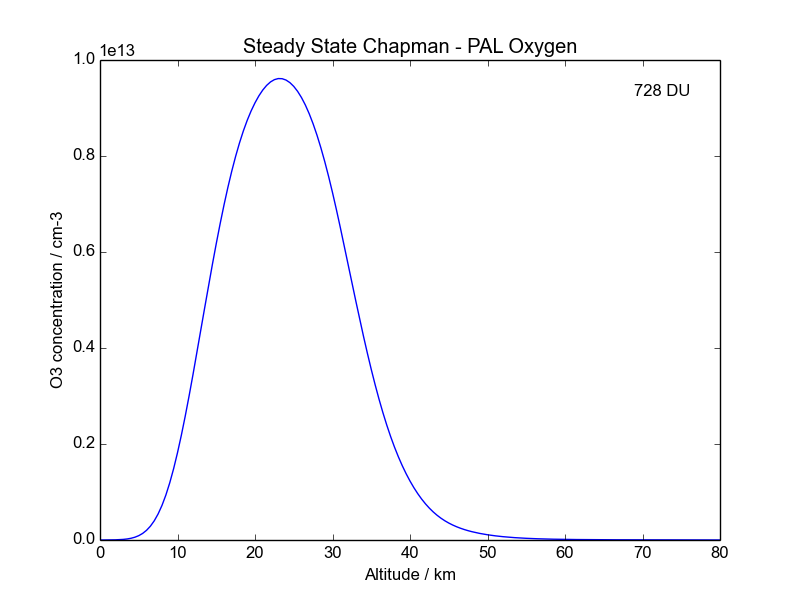
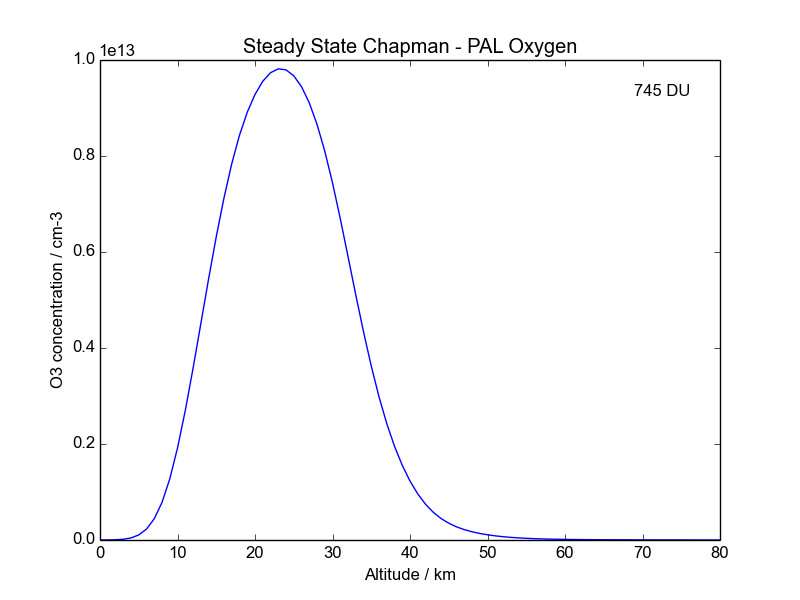
Revert to arrays for D1 etc. Adjustments to chemical solver code

diff --git a/main.py b/main.py
@@ -12,11 +12,11 @@ from netCDF4 import Dataset
 from scipy.integrate import odeint,ode
 
 from data import extract_csec,ncsave
-from optical_depth import od_chems_new
+from optical_depth import od_chems_new,od_chems
 from j_rates import j
 from k_rates import k
 from steady_state import steady,ozone,otp
-from d_arrays import d2_calc_new,d3_calc_new,d2_calc,d3_calc
+from d_arrays import d2_calc,d3_calc,d1_init
 from plotting import altconc,linoxyoz,logoxyoz
 
 #Running options
@@ -25,7 +25,6 @@ ratio = 0.21
 # Steady state mode - can set up 'initial values' for chem scheme
 steadystate = True
 interactive = False
-numerics = False
 new_numerics = True
 # Plotting scripts - plots oxygen vs ozone for a range of oxygen vals
 plot_on = True
@@ -34,7 +33,7 @@ plot_on = True
 
 #Constants
 #Number of atmospheric levels
-nlevs=161
+nlevs=81
 #Height, km
 h_min=0
 h_max=80
@@ -43,6 +42,8 @@ heights=np.linspace(h_max,h_min,nlevs)
 H=7
 #surface M, cm-3
 M_surf=2.5E19*(ratio+0.79)
+
+box_h=(1E5*(h_max-h_min)/(nlevs-1))
 
 # wavelength bins, interpolating o2 & solar onto o3 csec wavelengths, extract temps
 sol_bin_width,o2_c,o3_c,sol,T=extract_csec(heights)
@@ -89,98 +90,45 @@ if plot_on==True:
 	linoxyoz(nlevs,h_max,h_min,H,o2_c,o3_c,T,sol,sol_bin_width)
 
 if new_numerics==True:
-        file=Dataset('netcdf/O3.nc')
-        o3_init=file.variables['O3'][:]
-        file=Dataset('netcdf/O2.nc')
-        o2=file.variables['O2'][:]
-	M=o2/ratio
-        file=Dataset('netcdf/O.nc')
-        o_init=file.variables['O'][:]
 	o2_running=0
 	o3_running=0
 	o3=np.zeros(nlevs)
 	o=np.zeros(nlevs)
+        d1defs=np.genfromtxt("species.dat",dtype='str',skiprows=2)
+        bimol=np.genfromtxt("bimol.dat",dtype='str',skiprows=2)
+        photo=np.genfromtxt("photol.dat",dtype='str',skiprows=2)
+        nrxns=len(bimol)+len(photo)
+        nspec=len(d1defs[:,0])
+	d1=d1_init(d1defs,nlevs,ratio)
+	o2=d1[np.where(d1defs=='O2')[0][0],:]
+	M=d1[np.where(d1defs=='M')[0][0],:]
+        d3=np.zeros([len(d1defs[:,0]),nlevs])
 	for i in range(nlevs):
-		k3M=k('k3M',T[i],M[i])
-		k4=k('k4',T[i],M[i])
-		optical_depth=o2_c*o2_running+o3_c*o3_running
-		I_factor=np.exp(-optical_depth)
-		I=np.array(sol*I_factor)
-		J2=j(I,o2_c,o3_c,'JO2',sol_bin_width)
-		J3=j(I,o2_c,o3_c,'JO3',sol_bin_width)
+		#Create dictionary of rates
+                rates={}
+                for a in range(len(bimol)):
+                        rates[a]=k(bimol[a,2],T[i],M[i])
+                I=od_chems(o2_running,o3_running,o2_c,o3_c,sol)
+                for a in range(len(photo)):
+                        rates[a+len(bimol)]=j(I,o2_c,o3_c,photo[a,1],sol_bin_width)
+		#Define function for chemical tendencies
 		def f(y, t):
-			g=[k3M*y[1]*o2[i]-(J3+k4*y[1])*y[0],2*J2*o2[i]+J3*y[0]-(k3M*o2[i]+k4*y[0])*y[1]]
+			g=[rates[0]*y[1]*o2[i]-(rates[3]+rates[1]*y[1])*y[0],2*rates[2]*o2[i]+rates[3]*y[0]-(rates[0]*o2[i]+rates[1]*y[0])*y[1]]
 			return g
 		#initial conditions
-		o0=o_init[i]
-		o30=o3_init[i]
-		y0=[o30,o0]
-		t=np.linspace(0,8640000,2400)
-		#There's probably a more efficient way to do this but meh
+		y0=[d1[np.where(d1defs=='O3')[0][0],i],d1[np.where(d1defs=='O')[0][0],i]]
+		time_tot=8640
+		t=np.linspace(0,time_tot,time_tot/3600)
+		#solution provides a time series, take the final value
 		soln=odeint(f,y0,t)
 		soln=soln[len(t)-1,:]
-		o3[i]=soln[0]
-		o[i]=soln[1]
-		o3_running=o3_running+o3[i]*(1E5*(h_max-h_min)/(nlevs-1))
-		o2_running=o2_running+o2[i]*(1E5*(h_max-h_min)/(nlevs-1))
-	plt.plot(heights,(o3_init-o3)/o3_init)
+		if i==0:
+			print soln
+		d3[np.where(d1defs=='O3')[0][0],i]=soln[0]
+                d3[np.where(d1defs=='O')[0][0],i]=soln[1]
+		o3_running=o3_running+d3[np.where(d1defs=='O3')[0][0],i]*box_h
+		o2_running=o2_running+d1[np.where(d1defs=='O2')[0][0],i]*box_h
+	#print d3[np.where(d1defs=='O3')[0][0],:]
+	#print o3_init
+	plt.plot(heights,(d1[np.where(d1defs=='O3')[0][0],:]-d3[np.where(d1defs=='O3')[0][0],:])/d1[np.where(d1defs=='O3')[0][0],:])
 	plt.savefig('new_numerics.png')
-if numerics==True:
-#The D1 array contains the chemical species concentrations
-#D1 metadata is contained in D1DEFS
-
-	print "CONSTRUCTING D1 ARRAY"
-	d1defs=np.genfromtxt("species.dat",dtype='str',skiprows=2)
-	#d1=d1_init(d1defs,nlevs,ratio)
-	d1={}
-	y=0
-	while y<len(d1defs[:,0]):
-	        D=Dataset('netcdf/'+d1defs[y,0]+'.nc')
-	        value=D.variables[d1defs[y,0]][:]
-	        key=d1defs[y,0]
-	        d1[key]=value
-	        y+=1
-	print d1.__class__
-	bimol=np.genfromtxt("bimol.dat",dtype='str',skiprows=2)
-	photo=np.genfromtxt("photol.dat",dtype='str',skiprows=2)
-	nrxns=len(bimol)+len(photo)
-	nspec=len(d1defs[:,0])
-#The D2 array contains the chemical tendencies for each reaction
-#There is a chemical tendency arising from each chemical reaction
-	for i in range(1):
-		rates={}
-		for a in range(len(bimol)):
-			rates[a]=k(bimol[a,2],T[i],M[i])
-		I=od_chems_new(d1,d1defs,o2_c,o3_c,sol,nlevs,len(sol),h_max,h_min)
-		for a in range(len(photo)):
-			rates[a+len(bimol)]=j(I,o2_c,o3_c,photo[a,1],sol_bin_width)
-		print rates
-		def f(y, t):
-			for a in range(nspec):
-				sp=d1defs[a,0]
-				d3[sp]=y[a]
-				d2[sp]=0
-				for b in range(np.where(bimol==d1defs[a,0])[:][0].shape[0]):
-					rxno=np.where(bimol==d1defs[i,0])[0][j]
-					if np.where(bimol==d1defs[a,0])[1][b]<2:
-						d2[sp]=d2[sp]-d3[bimol[rxno,0]]*d3[bimol[rxno,1]]*rates[bimol[rxno,2]]
-					else:
-						d2[sp]=d2[sp]+d3[bimol[rxno,0]]*d3[bimol[rxno,1]]*rates[bimol[rxno,2]]
-			return d2
-		t=[0,3600,7200]
-		soln=ode(f).set_integrator('lsoda')
-		print soln
-		soln.integrate(soln,3600)
-#		soln=odeint(f,d1,t)
-		#d2=d2_calc_new(nrxns,nlevs,d1,bimol,T,photo,o2_c,o3_c,sol,sol_bin_width,d1defs,d1['M'],h_max,h_min)
-		#d3=d3_calc_new(d1defs,nlevs,bimol,photo,d2)
-		#print d3[1,:]
-		#for i in range(len(d1defs[:,0])):
-		#	d1[d1defs[i,0]]=d1[d1defs[i,0]]+d3[d1defs[i,0]]
-		#doz=d1['O3']
-		#doz=doz*(1E5*(h_max-h_min)/(nlevs-1))
-		#doz=np.sum(doz)
-		#doz=doz/2.69E16
-du=o3_running/2.69E16
-#plt.plot(np.linspace(h_min,h_max,nlevs),d1[1,:])
-#plt.show()

diff --git a/deprecated_code.py b/deprecated_code.py
@@ -1,0 +1,60 @@
+if numerics==True:
+#The D1 array contains the chemical species concentrations
+#D1 metadata is contained in D1DEFS
+
+        print "CONSTRUCTING D1 ARRAY"
+        d1defs=np.genfromtxt("species.dat",dtype='str',skiprows=2)
+        #d1=d1_init(d1defs,nlevs,ratio)
+        d1={}
+        y=0
+        while y<len(d1defs[:,0]):
+                D=Dataset('netcdf/'+d1defs[y,0]+'.nc')
+                value=D.variables[d1defs[y,0]][:]
+                key=d1defs[y,0]
+                d1[key]=value
+                y+=1
+        print d1.__class__
+        bimol=np.genfromtxt("bimol.dat",dtype='str',skiprows=2)
+        photo=np.genfromtxt("photol.dat",dtype='str',skiprows=2)
+        nrxns=len(bimol)+len(photo)
+        nspec=len(d1defs[:,0])
+#The D2 array contains the chemical tendencies for each reaction
+#There is a chemical tendency arising from each chemical reaction
+        for i in range(1):
+                rates={}
+                for a in range(len(bimol)):
+                        rates[a]=k(bimol[a,2],T[i],M[i])
+                I=od_chems_new(d1,d1defs,o2_c,o3_c,sol,nlevs,len(sol),h_max,h_min)
+                for a in range(len(photo)):
+                        rates[a+len(bimol)]=j(I,o2_c,o3_c,photo[a,1],sol_bin_width)
+                print rates
+                def f(y, t):
+                        for a in range(nspec):
+                                sp=d1defs[a,0]
+                                d3[sp]=y[a]
+                                d2[sp]=0
+                                for b in range(np.where(bimol==d1defs[a,0])[:][0].shape[0]):
+                                        rxno=np.where(bimol==d1defs[i,0])[0][j]
+                                        if np.where(bimol==d1defs[a,0])[1][b]<2:
+                                                d2[sp]=d2[sp]-d3[bimol[rxno,0]]*d3[bimol[rxno,1]]*rates[bimol[rxno,2]]
+                                        else:
+                                                d2[sp]=d2[sp]+d3[bimol[rxno,0]]*d3[bimol[rxno,1]]*rates[bimol[rxno,2]]
+                        return d2
+                t=[0,3600,7200]
+                soln=ode(f).set_integrator('lsoda')
+                print soln
+                soln.integrate(soln,3600)
+#               soln=odeint(f,d1,t)
+                #d2=d2_calc_new(nrxns,nlevs,d1,bimol,T,photo,o2_c,o3_c,sol,sol_bin_width,d1defs,d1['M'],h_max,h_min)
+                #d3=d3_calc_new(d1defs,nlevs,bimol,photo,d2)
+                #print d3[1,:]
+                #for i in range(len(d1defs[:,0])):
+                #       d1[d1defs[i,0]]=d1[d1defs[i,0]]+d3[d1defs[i,0]]
+                #doz=d1['O3']
+                #doz=doz*(1E5*(h_max-h_min)/(nlevs-1))
+                #doz=np.sum(doz)
+                #doz=doz/2.69E16
+du=o3_running/2.69E16
+#plt.plot(np.linspace(h_min,h_max,nlevs),d1[1,:])
+#plt.show()
+

diff --git a/d_arrays.py b/d_arrays.py
@@ -120,3 +120,50 @@ def d1_init(d1defs,nlevs,ratio):
 			print >> sys.stderr, "ERROR: STEADY STATE SPECIES NOT DEFINED IN D1_INIT ARRAY"
 			sys.exit(1)
 	return d1
+def d2_calc(nrxns,nlevs,d1,bimol,T,photo,o2_c,o3_c,sol,sol_bin_width,d1defs,M,h_max,h_min):
+#        print "CONSTRUCTING D2 ARRAY OF CHEMICAL TENDENCIES"
+        d2=np.zeros([nrxns,nlevs])
+        for i in range(len(bimol)):
+ #               print "BIMOLECULAR RXN"
+                spec_1=d1[np.where(d1defs==bimol[i,0])[0][0],:]
+                spec_2=d1[np.where(d1defs==bimol[i,1])[0][0],:]
+                k_rt=k(bimol[i,2],T,M)
+                spec=np.multiply(spec_1,spec_2)
+                d2[i]=np.multiply(spec,k_rt)
+        for i in range(len(photo)):
+  #              print "PHOTOLYTIC RXN"
+                spec=d1[np.where(d1defs==photo[i,0])[0][0],:]
+                j_rt=np.zeros(nlevs)
+                I=od_chems(d1,d1defs,o2_c,o3_c,sol,nlevs,len(sol),h_max,h_min)
+                j_rt=j(I,o2_c,o3_c,photo[i,1],sol_bin_width)
+                d2[i+len(bimol)]=np.multiply(spec,j_rt)
+	return d2
+def d3_calc(d1defs,nlevs,bimol,photo,d2):
+        d3=np.zeros([len(d1defs[:,0]),nlevs])
+        for i in range(len(d1defs[:,0])):
+                        #calc n times spec occurs
+         try:
+          for j in range(np.where(bimol==d1defs[i,0])[:][0].shape[0]):
+           if np.where(bimol==d1defs[i,0])[1][j]<2:
+            d3[i,:]=d3[i,:]-d2[np.where(bimol==d1defs[i,0])[0][j],:]
+           else:
+            d3[i,:]=d3[i,:]+d2[np.where(bimol==d1defs[i,0])[0][j],:]
+         except:
+          print "WARNING: SPECIES "+d1defs[i,0]+" NOT IN BIMOL"
+         try:
+          for j in range(np.where(photo==d1defs[i,0])[:][0].shape[0]):
+           if np.where(photo==d1defs[i,0])[1][j]<1:
+            d3[i,:]=d3[i,:]-d2[len(bimol)+np.where(photo==d1defs[i,0])[0][j],:]
+           else:
+            d3[i,:]=d3[i,:]+d2[len(bimol)+np.where(photo==d1defs[i,0])[0][j],:]
+         except:
+          print "WARNING: SPECIES "+d1defs[i,0]+" NOT IN PHOTOL"
+	return d3
+def d1_init(d1defs,nlevs,ratio):
+	d1=np.zeros([len(d1defs[:,0]),nlevs])
+	for i in range(len(d1defs[:,0])):
+		file=Dataset('netcdf/'+d1defs[i,0]+'.nc')
+		species=file.variables[d1defs[i,0]][:]
+		d1[i,:]=species
+		file.close()
+	return d1

diff --git a/optical_depth.py b/optical_depth.py
@@ -1,16 +1,10 @@
 # Calculated the optical depth
 import numpy as np
-def od_chems(d1,d1defs,o2_c,o3_c,sol,nlevs,wbins,h_max,h_min):
-	o2col=np.zeros([nlevs,wbins])
-	o3col=np.zeros([nlevs,wbins])
-	for i in range(nlevs):
-		for j in range(wbins):
-			o2col[i,j]=(i+1)*(1E5*(h_max-h_min)/(nlevs-1))*np.sum(d1[np.where(d1defs=='O2')[0][0],:i+1])
-			o3col[i,j]=(i+1)*(1E5*(h_max-h_min)/(nlevs-1))*np.sum(d1[np.where(d1defs=='O3')[0][0],:i+1])
-	opd=o2col*o2_c+o3col*o3_c
-	I_factor=np.exp(-opd)
+def od_chems(o2_running,o3_running,o2_c,o3_c,sol):
+	optical_depth=o2_c*o2_running+o3_c*o3_running
+	I_factor=np.exp(-optical_depth)
 	I=I_factor*sol
-	return I_factor
+	return I
 def od_chems_new(d1,d1defs,o2_c,o3_c,sol,nlevs,wbins,h_max,h_min):
         o2col=np.zeros([nlevs,wbins])
         o3col=np.zeros([nlevs,wbins])
